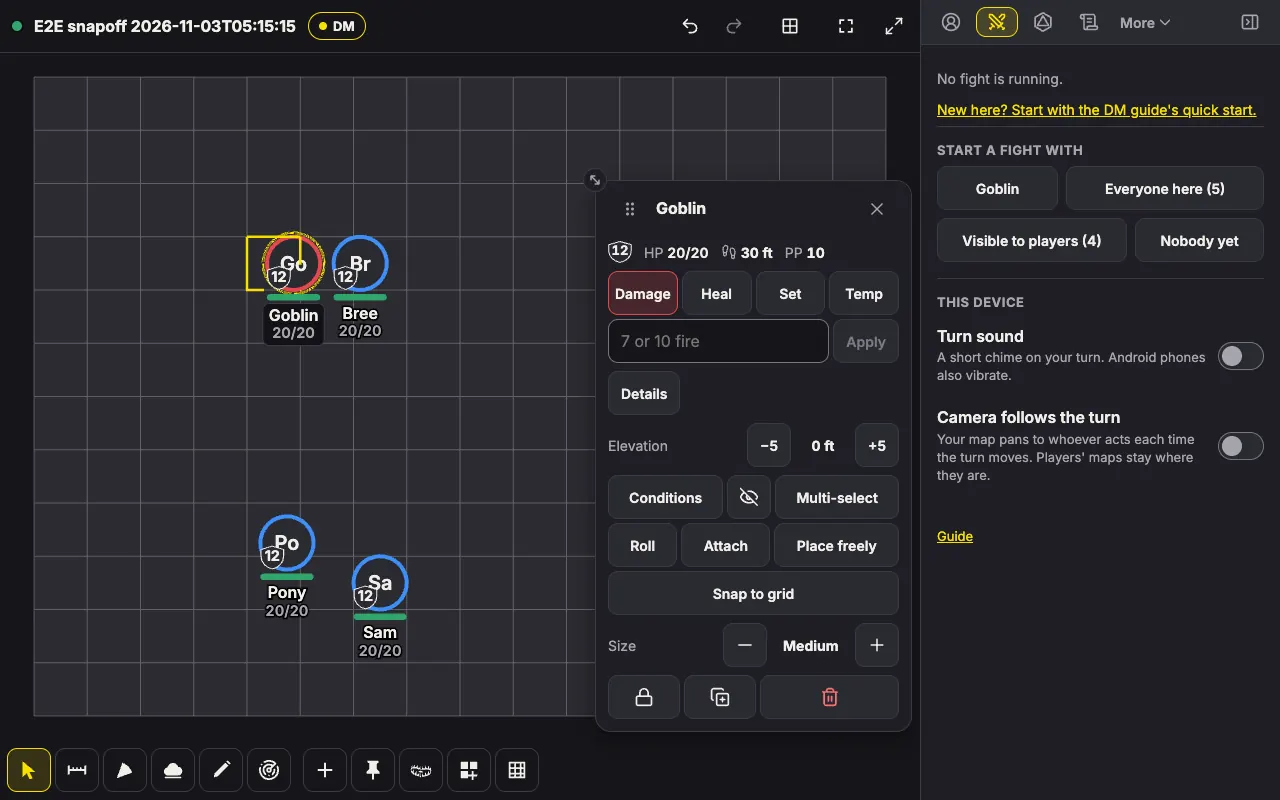
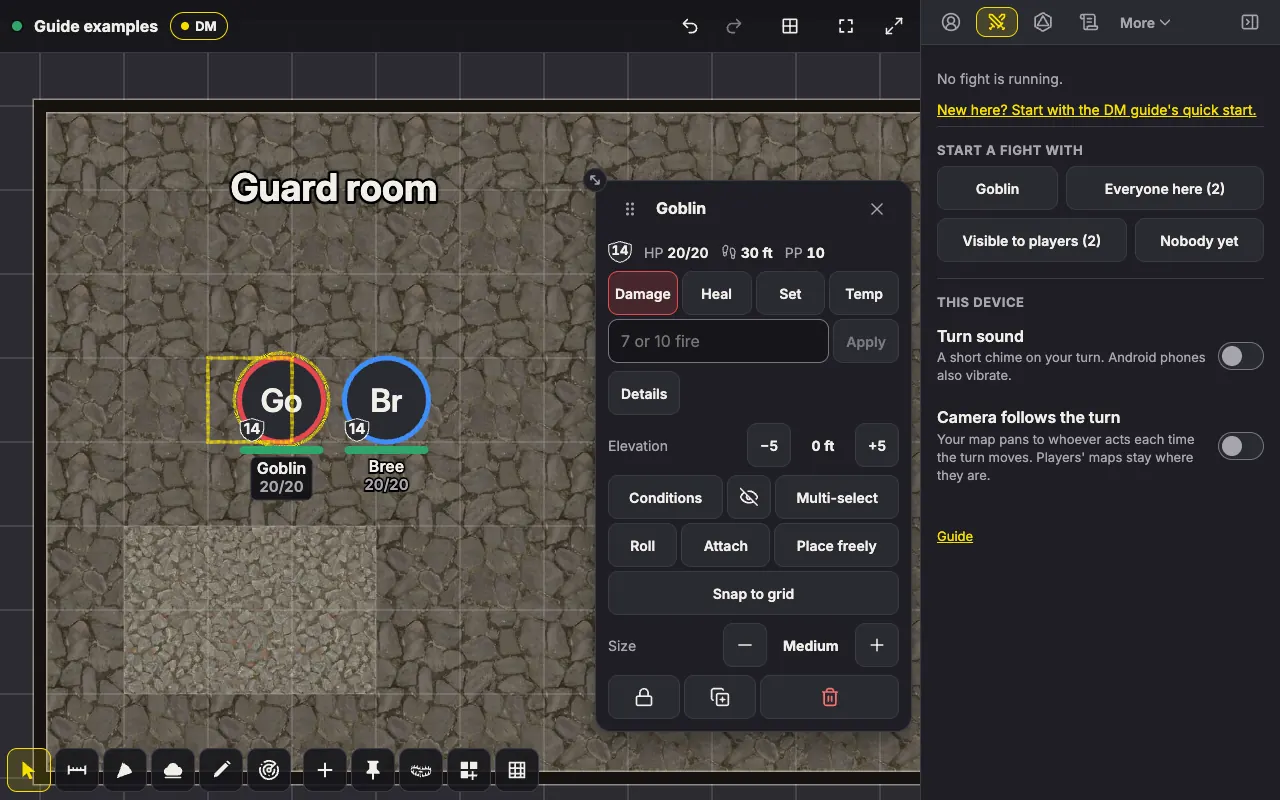
docs(snapoff): the guide's between squares picture from its own script, in a guide examples room on map art

diff --git a/scripts/guide-snapoff.ts b/scripts/guide-snapoff.ts
@@ -1,0 +1,105 @@
+/**
+ * The DM guide's picture of tokens placed between squares (docs/dm-guide.md,
+ * "Between squares", docs/design/design-v1-snap-off.md), taken from the real
+ * server on the production build so it always shows the app as it is.
+ *
+ * The room is a stone hall with a goblin and Bree one square apart, each
+ * placed 3/8 of a square toward the other, so they look adjacent. The
+ * goblin is selected: the dashed outline marks the square the rules count
+ * it in, and its window shows Place freely and Snap to grid in its play row.
+ *
+ * It needs `pnpm build` first and a Postgres in DATABASE_URL. It makes a
+ * room, writes docs/dm-guide/between-squares.webp at 1280 x 800, as the
+ * guide's other pictures are, and deletes the room:
+ *
+ *   DATABASE_URL=postgres://... GUIDE_PORT=3197 node scripts/guide-snapoff.ts
+ */
+import { randomUUID } from "node:crypto";
+import { mkdtempSync, rmSync } from "node:fs";
+import { tmpdir } from "node:os";
+import path from "node:path";
+import { chromium, type Page } from "playwright-core";
+import sharp from "sharp";
+import { OpSocket, ROOT, SocketWatch, startServer, tapCell, waitFor } from "../e2e/harness.ts";
+
+const PORT = Number(process.env.GUIDE_PORT ?? 3197);
+const DATABASE_URL = process.env.DATABASE_URL ?? "postgres://raccoon:raccoon@localhost:5434/raccoon";
+const OUT = path.join(ROOT, "docs", "dm-guide");
+const WINDOW = { width: 1280, height: 800 };
+const BOUNDS = { w: 14, h: 10 };
+
+function actor() {
+  return { hp: { cur: 20, max: 20, temp: 0 }, life: "alive", ac: 14, speeds: { walk: 30 }, initBonus: 0, passivePerception: 10, senses: "", effects: [], deathSaves: { ok: 0, fail: 0 }, notes: "", dmNotes: "" };
+}
+
+/** The page as the guide shows it, at the quality its other pictures use. */
+async function picture(page: Page, name: string): Promise<void> {
+  // The map's camera and the panels settle after a change.
+  await page.waitForTimeout(800);
+  const png = await page.screenshot();
+  const info = await sharp(png).webp({ quality: 78, effort: 6 }).toFile(path.join(OUT, `${name}.webp`));
+  console.log(`${name}.webp ${info.width} x ${info.height}, ${Math.round(info.size / 1024)} KB`);
+}
+
+const work = mkdtempSync(path.join(tmpdir(), "raccoon-guide-snapoff-"));
+const server = await startServer({ port: PORT, assetDir: path.join(work, "assets"), databaseUrl: DATABASE_URL });
+const browser = await chromium.launch({ channel: "chrome", headless: true });
+const roomName = "Guide examples";
+let roomId = "";
+let ops: OpSocket | null = null;
+const dmContext = await browser.newContext({ viewport: WINDOW });
+try {
+  const origin = server.origin;
+  const dm = await dmContext.newPage();
+  const dmSocket = new SocketWatch("dm");
+  await dmSocket.attach(dmContext, dm);
+
+  await dm.goto(`${origin}/`);
+  await dm.getByLabel("Room name").fill(roomName);
+  await dm.getByLabel("Your name").fill("Dana the DM");
+  await dm.getByRole("button", { name: "Create room" }).click();
+  await dm.getByRole("heading", { name: "Save your DM link" }).waitFor();
+  const link = (await dm.locator("code").first().textContent()) ?? "";
+  roomId = /\/r\/([0-9A-Z]{4}-[0-9A-Z]{4})#dm=/.exec(link)![1]!.replace("-", "");
+  await dm.getByLabel("I saved my DM link").check();
+  await dm.getByRole("button", { name: "Continue to the room" }).click();
+  await waitFor("the DM's snapshot", () => dmSocket.state);
+  const sceneId = dmSocket.state!.meta.playerSceneId!;
+  const cookie = (await dmContext.cookies(origin)).map((c) => `${c.name}=${c.value}`).join("; ");
+  ops = await OpSocket.open({ origin, roomId, cookie });
+
+  await ops.send({ t: "scene.update", sceneId, patch: { name: "Goblin Warren", bounds: BOUNDS, fogEnabled: false, defaultView: { x: 6, y: 4.5, zoom: 84 } } });
+  await ops.send({ t: "build.rect", sceneId, terrain: "stone", x: 1, y: 1, w: BOUNDS.w - 2, h: BOUNDS.h - 2 });
+  await ops.send({ t: "build.rect", sceneId, terrain: "rubble", x: 2, y: 6, w: 3, h: 2 });
+  await ops.send({ t: "build.label", sceneId, labelId: randomUUID(), label: { x: 4.5, y: 2, text: "Guard room", size: 0.45 } });
+  const goblin = randomUUID();
+  const bree = randomUUID();
+  const token = (id: string, name: string, kind: "pc" | "monster", disposition: "ally" | "hostile", x: number, y: number) => ({
+    t: "token.create",
+    token: { id, sceneId, kind, name, size: "medium", x, y, visibility: "all", disposition, actor: { inline: actor() } },
+  });
+  await ops.send(token(goblin, "Goblin", "monster", "hostile", 3, 4));
+  await ops.send(token(bree, "Bree", "pc", "ally", 5, 4));
+  // Each 3/8 of a square toward the other: one square apart by the rules, and they look adjacent.
+  await ops.send({ t: "token.update", tokenId: goblin, patch: { drawnAt: { x: 3.375, y: 4 } } });
+  await ops.send({ t: "token.update", tokenId: bree, patch: { drawnAt: { x: 4.625, y: 4 } } });
+  await waitFor("both placed", () => (dmSocket.state?.tokens[goblin]?.nudge && dmSocket.state?.tokens[bree]?.nudge ? true : null));
+
+  await dm.reload();
+  await dm.locator(".konvajs-content").first().waitFor();
+  await tapCell(dm, BOUNDS, { x: 3, y: 4 });
+  await dm.getByRole("dialog", { name: "Goblin actions, placed between squares", exact: true }).waitFor();
+  await waitFor("the goblin's outline", () =>
+    dm.evaluate((id) => {
+      const konva = (globalThis as unknown as { Konva: { stages: { width(): number; findOne(s: string): { isVisible(): boolean } | undefined }[] } }).Konva;
+      return konva.stages.some((s) => s.width() > 0 && s.findOne(`#${id}-rules`)?.isVisible()) || null;
+    }, goblin),
+  );
+  await picture(dm, "between-squares");
+} finally {
+  ops?.close();
+  if (roomId) await dmContext.request.delete(`${server.origin}/api/rooms/${roomId}`, { headers: { Origin: server.origin }, data: { name: roomName } }).catch(() => undefined);
+  await browser.close();
+  await server.stop();
+  rmSync(work, { recursive: true, force: true });
+}
